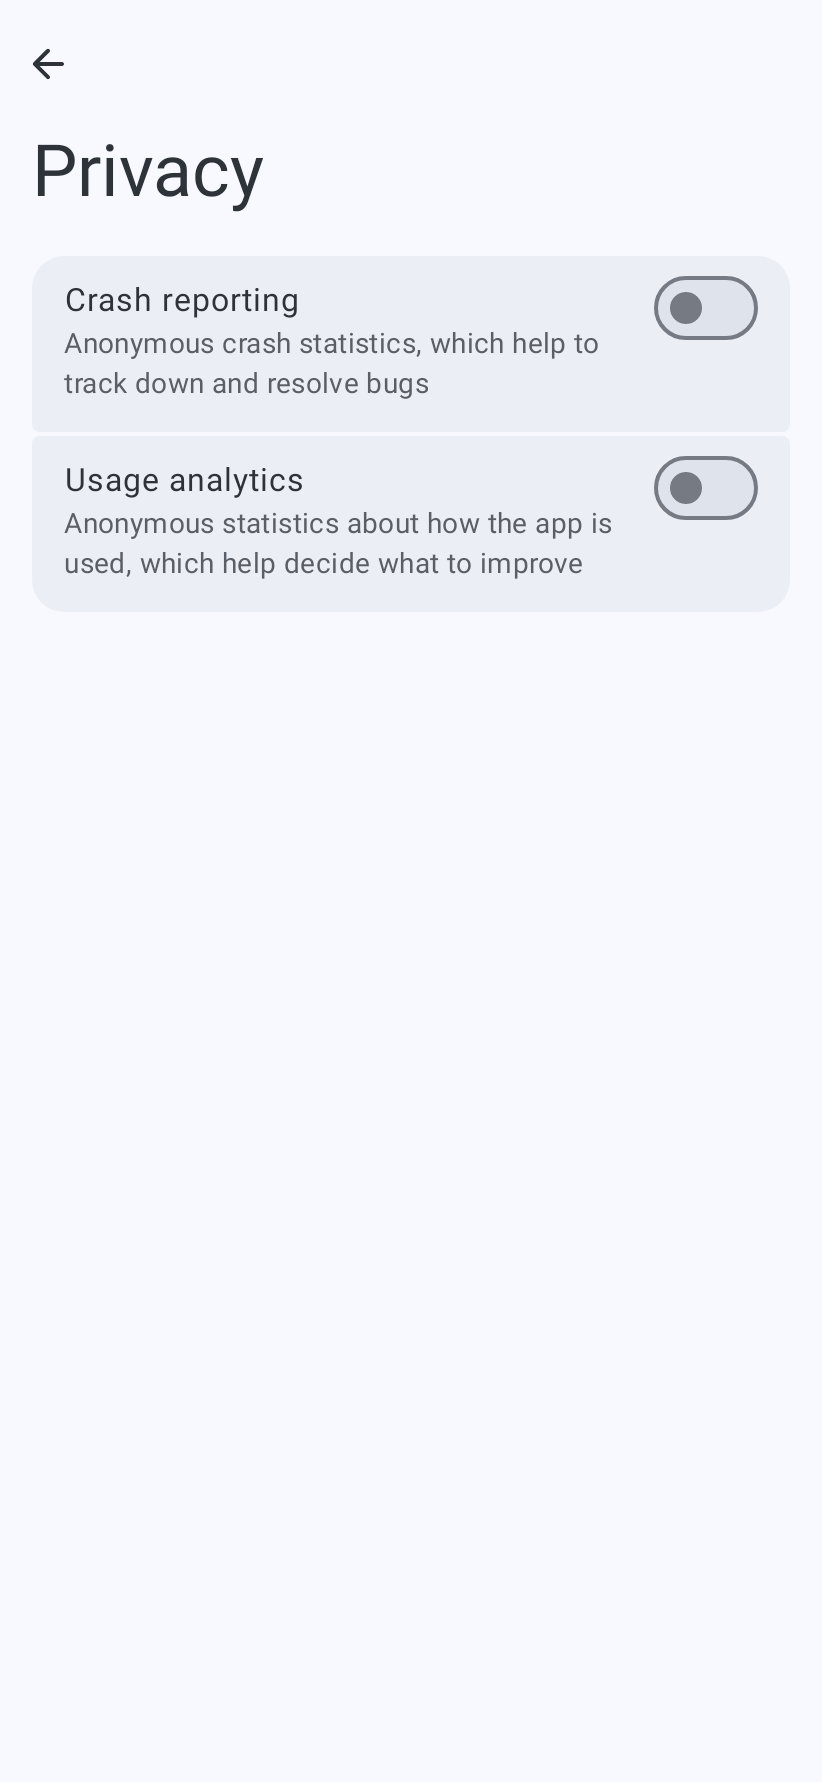
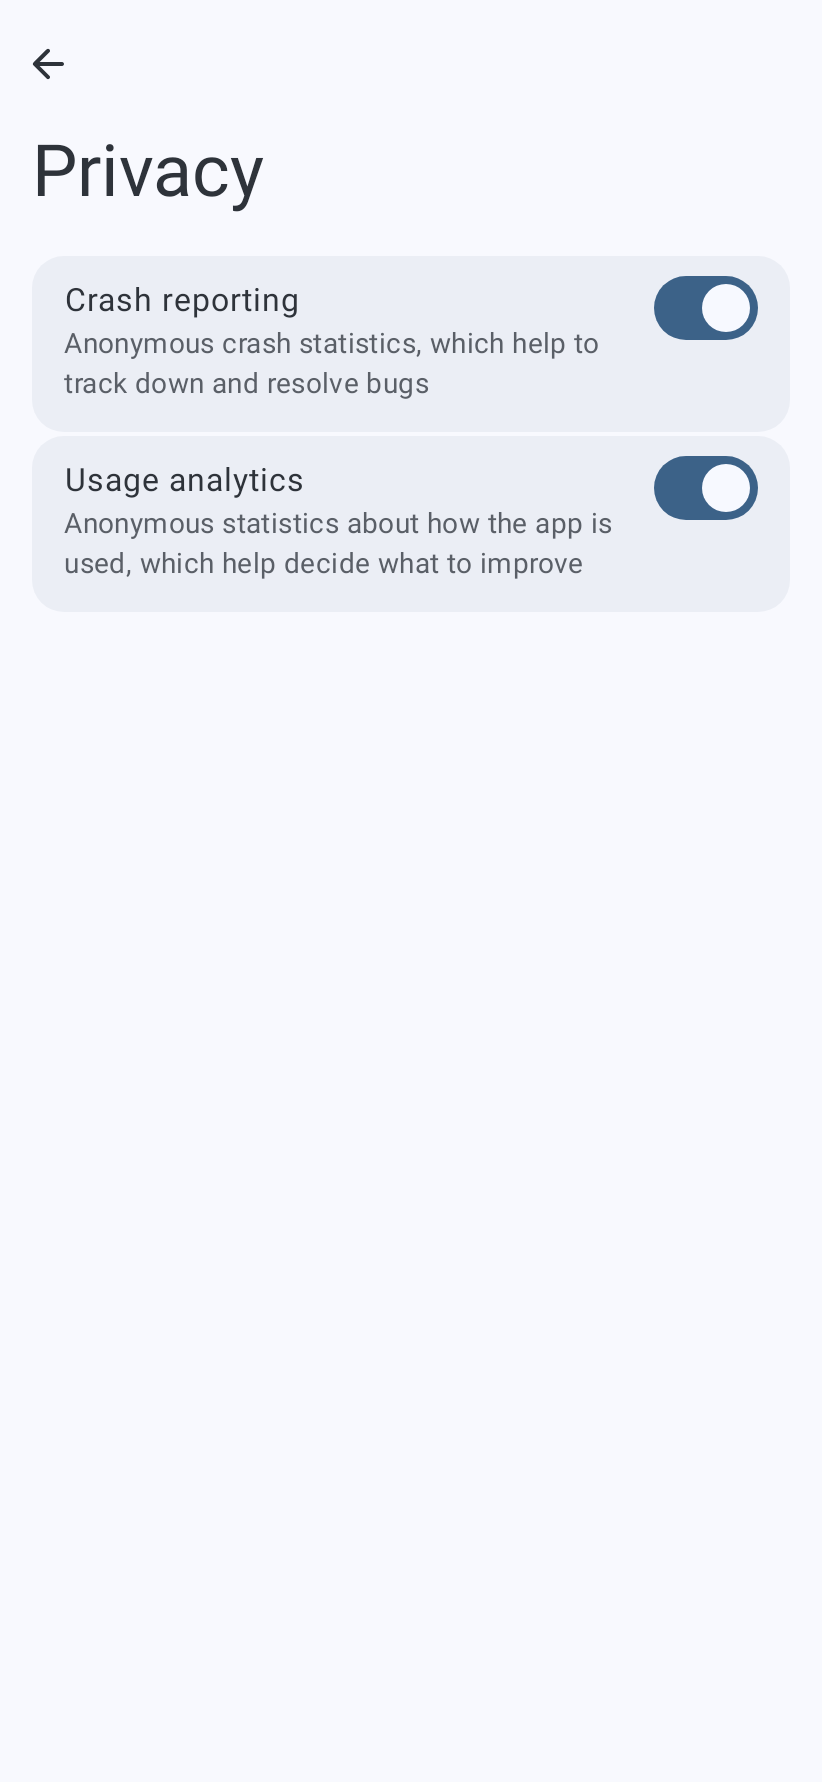
feat(app): turn analytics and crash reporting on by default for existing users
Crash reporting and analytics now default to on for anyone who never made an
explicit choice, matching the behaviour new installs already got. Existing
users who answered or dismissed the old Home consent card are migrated to an
explicit off for analytics (a dismissed/declined card counts as "no"), one
time, in InstallDefaults; everyone else picks up the new default. PostHog
stays anonymous: PersonProfiles.IDENTIFIED_ONLY with no identify() call ever
made.

Refs #481
Claude-Session: https://claude.ai/code/session_01CL48t2dCTxLYqEqQTddaMS

Changed region(s): [[0.7908, 0.2469, 0.9428, 0.3086], [0.7908, 0.1543, 0.9428, 0.216]]

diff --git a/android/app/src/test/java/com/simplecityapps/shuttle/InstallDefaultsTest.kt b/android/app/src/test/java/com/simplecityapps/shuttle/InstallDefaultsTest.kt
@@ -3,6 +3,7 @@ package com.simplecityapps.shuttle
 import android.content.SharedPreferences
 import androidx.core.content.edit
 import com.simplecityapps.shuttle.persistence.GeneralPreferenceManager
+import com.simplecityapps.shuttle.settings.AnalyticsConsentSettings
 import com.simplecityapps.shuttle.settings.PrivacySettings
 import com.simplecityapps.shuttle.settings.SettingsStore
 import com.simplecityapps.shuttle.settings.defaultSharedPreferences
@@ -17,29 +18,52 @@ class InstallDefaultsTest {
     private val prefs: SharedPreferences = RuntimeEnvironment.getApplication().defaultSharedPreferences().apply { edit().clear().commit() }
     private val preferenceManager = GeneralPreferenceManager(prefs)
     private val privacySettings = PrivacySettings(SettingsStore(prefs))
-    private val installDefaults = InstallDefaults(preferenceManager, privacySettings)
+    private val analyticsConsentSettings = AnalyticsConsentSettings(SettingsStore(prefs))
+    private val installDefaults = InstallDefaults(preferenceManager, privacySettings, analyticsConsentSettings)
 
     @Test
-    fun `a new install turns crash reporting and analytics on and has no changelog to show`() {
+    fun `a new install turns crash reporting and analytics on, has no changelog to show, and never needs the notice`() {
         installDefaults.onLaunch(versionCode = 26092501, versionName = "2026.09.25")
 
         privacySettings.crashReporting.value shouldBe true
         privacySettings.analytics.value shouldBe true
         preferenceManager.lastViewedChangelogVersion shouldBe "2026.09.25"
         preferenceManager.previousVersionCode shouldBe 26092501
+        analyticsConsentSettings.noticeShown.value shouldBe true
     }
 
     @Test
-    fun `an upgrade from a user who never chose keeps crash reporting and analytics off and shows the changelog`() {
+    fun `an upgrade from a user who never chose turns crash reporting and analytics on and shows the changelog`() {
         preferenceManager.previousVersionCode = 26010101
         preferenceManager.lastViewedChangelogVersion = "2026.01.01"
 
         installDefaults.onLaunch(versionCode = 26092501, versionName = "2026.09.25")
 
-        privacySettings.crashReporting.value shouldBe false
-        privacySettings.analytics.value shouldBe false
+        privacySettings.crashReporting.value shouldBe true
+        privacySettings.analytics.value shouldBe true
         preferenceManager.lastViewedChangelogVersion shouldBe "2026.01.01"
         preferenceManager.previousVersionCode shouldBe 26092501
+    }
+
+    @Test
+    fun `an upgrade from a user who never chose does not mark the notice shown`() {
+        preferenceManager.previousVersionCode = 26010101
+
+        installDefaults.onLaunch(versionCode = 26092501, versionName = "2026.09.25")
+
+        analyticsConsentSettings.noticeShown.value shouldBe false
+    }
+
+    @Test
+    fun `an upgrade from a user who answered the deleted consent card migrates analytics to an explicit off`() {
+        preferenceManager.previousVersionCode = 26010101
+        analyticsConsentSettings.asked.value = true
+
+        installDefaults.onLaunch(versionCode = 26092501, versionName = "2026.09.25")
+
+        privacySettings.analytics.value shouldBe false
+        privacySettings.analytics.isSet() shouldBe true
+        analyticsConsentSettings.noticeShown.value shouldBe true
     }
 
     @Test
@@ -53,6 +77,18 @@ class InstallDefaultsTest {
         installDefaults.onLaunch(versionCode = 26092501, versionName = "2026.09.25")
 
         privacySettings.crashReporting.value shouldBe true
+        privacySettings.analytics.value shouldBe true
+        analyticsConsentSettings.noticeShown.value shouldBe true
+    }
+
+    @Test
+    fun `an upgrade keeps an explicit opt-out even from a user who answered the deleted consent card`() {
+        preferenceManager.previousVersionCode = 26010101
+        analyticsConsentSettings.asked.value = true
+        privacySettings.analytics.value = true
+
+        installDefaults.onLaunch(versionCode = 26092501, versionName = "2026.09.25")
+
         privacySettings.analytics.value shouldBe true
     }
 

diff --git a/android/app/src/test/java/com/simplecityapps/shuttle/telemetry/TelemetryConsentGateTest.kt b/android/app/src/test/java/com/simplecityapps/shuttle/telemetry/TelemetryConsentGateTest.kt
@@ -28,14 +28,27 @@ class TelemetryConsentGateTest {
     }
 
     @Test
-    fun `nothing is collected before the user opts in`() = runTest {
+    fun `both default on for a user who never chose`() = runTest {
         startGate()
         runCurrent()
 
-        crashReporting.calls shouldBe listOf(false, false)
-        analytics.calls shouldBe listOf(false, false)
-        crashReporting.enabled shouldBe false
-        analytics.enabled shouldBe false
+        crashReporting.calls shouldBe listOf(true, true)
+        analytics.calls shouldBe listOf(true, true)
+        crashReporting.enabled shouldBe true
+        analytics.enabled shouldBe true
+    }
+
+    @Test
+    fun `an explicit off stays off`() = runTest {
+        prefs.edit(commit = true) {
+            putBoolean(PrivacySettings.CrashReporting.key, false)
+            putBoolean(PrivacySettings.Analytics.key, false)
+        }
+
+        startGate()
+
+        crashReporting.calls shouldBe listOf(false)
+        analytics.calls shouldBe listOf(false)
     }
 
     @Test
@@ -52,33 +65,33 @@ class TelemetryConsentGateTest {
     }
 
     @Test
-    fun `opting in to analytics starts it and opting out stops it`() = runTest {
+    fun `opting out of analytics stops it, independently of crash reporting`() = runTest {
         startGate()
         runCurrent()
-
-        privacySettings.analytics.value = true
-        runCurrent()
-        analytics.enabled shouldBe true
-        crashReporting.enabled shouldBe false
 
         privacySettings.analytics.value = false
         runCurrent()
         analytics.enabled shouldBe false
+        crashReporting.enabled shouldBe true
+
+        privacySettings.analytics.value = true
+        runCurrent()
+        analytics.enabled shouldBe true
     }
 
     @Test
-    fun `opting in to crash reporting starts it and opting out stops it`() = runTest {
+    fun `opting out of crash reporting stops it, independently of analytics`() = runTest {
         startGate()
         runCurrent()
-
-        privacySettings.crashReporting.value = true
-        runCurrent()
-        crashReporting.enabled shouldBe true
-        analytics.enabled shouldBe false
 
         privacySettings.crashReporting.value = false
         runCurrent()
         crashReporting.enabled shouldBe false
+        analytics.enabled shouldBe true
+
+        privacySettings.crashReporting.value = true
+        runCurrent()
+        crashReporting.enabled shouldBe true
     }
 
     /** Records every [setEnabled] call the gate makes, standing in for Sentry or PostHog. */

diff --git a/android/app/src/main/java/com/simplecityapps/shuttle/InstallDefaults.kt b/android/app/src/main/java/com/simplecityapps/shuttle/InstallDefaults.kt
@@ -1,6 +1,7 @@
 package com.simplecityapps.shuttle
 
 import com.simplecityapps.shuttle.persistence.GeneralPreferenceManager
+import com.simplecityapps.shuttle.settings.AnalyticsConsentSettings
 import com.simplecityapps.shuttle.settings.PrivacySettings
 import javax.inject.Inject
 
@@ -11,14 +12,25 @@ import javax.inject.Inject
 class InstallDefaults @Inject constructor(
     private val preferenceManager: GeneralPreferenceManager,
     private val privacySettings: PrivacySettings,
+    private val analyticsConsentSettings: AnalyticsConsentSettings,
 ) {
     fun onLaunch(versionCode: Int = BuildConfig.VERSION_CODE, versionName: String = BuildConfig.VERSION_NAME) {
         if (preferenceManager.previousVersionCode == -1) {
-            // Nothing to catch up on: the changelog is for upgrades
+            // Nothing to catch up on: the changelog is for upgrades. Crash reporting and analytics default to on
+            // (#379, #481) on their own; nothing silently changed for a new install, so it never needs the notice.
             preferenceManager.lastViewedChangelogVersion = versionName
-            // On for new installs (#379, #481). Existing users who never chose keep the old default, off
-            privacySettings.crashReporting.value = true
-            privacySettings.analytics.value = true
+            analyticsConsentSettings.noticeShown.value = true
+        } else if (preferenceManager.previousVersionCode != versionCode) {
+            // First launch after upgrading to this version: analytics (and crash reporting) now default to on for
+            // anyone who never chose (#481). The deleted Home consent card's No thanks or dismiss (#421) never wrote
+            // an explicit value, so treat it as the opt-out it was.
+            if (analyticsConsentSettings.asked.value && !privacySettings.analytics.isSet()) {
+                privacySettings.analytics.value = false
+            }
+            // Anyone with an explicit choice by now, including that migration, made it already: no notice needed.
+            if (privacySettings.analytics.isSet()) {
+                analyticsConsentSettings.noticeShown.value = true
+            }
         }
         if (preferenceManager.previousVersionCode != versionCode) {
             preferenceManager.previousVersionCode = versionCode

diff --git a/android/core/src/main/java/com/simplecityapps/shuttle/settings/PrivacySettings.kt b/android/core/src/main/java/com/simplecityapps/shuttle/settings/PrivacySettings.kt
@@ -12,18 +12,19 @@ class PrivacySettings @Inject constructor(
 
     companion object {
         /**
-         * Sentry crash reporting, applied at startup and whenever it changes (TelemetryConsentGate), with the opt-out in
-         * Settings > Privacy. A new install stores it on (owner decision 3, #379; see InstallDefaults); this default,
-         * off, is what existing users who never chose have always had.
+         * Sentry crash reporting, applied at startup and whenever it changes (TelemetryConsentGate), with the opt-out
+         * in Settings > Privacy. On by default for everyone who hasn't explicitly turned it off (owner decision,
+         * #481); an explicit off always stays off.
          */
-        val CrashReporting = Setting.boolean("pref_crash_reporting", false)
+        val CrashReporting = Setting.boolean("pref_crash_reporting", true)
 
         /**
          * PostHog product analytics, applied at startup and whenever it changes (TelemetryConsentGate), with the
-         * opt-out in Settings > Privacy. A new install stores it on (owner decision, #481; see InstallDefaults); this
-         * default, off, is what existing users who never chose have always had — the Home consent card (#421) offers
-         * them the same choice. The key predates PostHog: it keeps the choice users made for Firebase Analytics.
+         * opt-out in Settings > Privacy. On by default for everyone who hasn't explicitly turned it off (owner
+         * decision, #481); an explicit off always stays off, including from the deleted Home consent card's No
+         * thanks or dismiss (#421), migrated to an explicit off by InstallDefaults. The key predates PostHog: it
+         * keeps the choice users made for Firebase Analytics.
          */
-        val Analytics = Setting.boolean("pref_firebase_analytics", false)
+        val Analytics = Setting.boolean("pref_firebase_analytics", true)
     }
 }

diff --git a/android/core/src/main/java/com/simplecityapps/shuttle/settings/AnalyticsConsentSettings.kt b/android/core/src/main/java/com/simplecityapps/shuttle/settings/AnalyticsConsentSettings.kt
@@ -3,23 +3,23 @@ package com.simplecityapps.shuttle.settings
 import javax.inject.Inject
 import javax.inject.Singleton
 
-/** The Home analytics consent card's own state (#421): whether it's been answered, and how many days it's counted. */
+/**
+ * Analytics consent history. [asked] is a leftover from the deleted Home consent card (#421), kept so
+ * InstallDefaults can migrate anyone who answered or dismissed it into an explicit opt-out (#481).
+ * [noticeShown] tracks the one-time notice that replaced the card.
+ */
 @Singleton
 class AnalyticsConsentSettings @Inject constructor(
     store: SettingsStore
 ) {
-    /** Answered, by Share, No thanks or dismissing the card; once true, the card never shows again. */
+    /** Answered, by Share, No thanks or dismissing the deleted card. */
     val asked = store.preference(Asked)
 
-    /** Days the app has been opened while the card hadn't been answered yet, counted once per calendar day. */
-    val daysOpened = store.preference(DaysOpened)
-
-    /** The epoch day [daysOpened] was last incremented on, so a day is never counted twice. */
-    val lastCountedEpochDay = store.preference(LastCountedEpochDay)
+    /** Whether the one-time "analytics is now on" notice has been shown (or never applies) for this install. */
+    val noticeShown = store.preference(NoticeShown)
 
     companion object {
         val Asked = Setting.boolean("pref_analytics_consent_asked", false)
-        val DaysOpened = Setting.int("pref_analytics_consent_days_opened", 0)
-        val LastCountedEpochDay = Setting.int("pref_analytics_consent_last_counted_epoch_day", -1)
+        val NoticeShown = Setting.boolean("pref_analytics_notice_shown", false)
     }
 }

diff --git a/android/app/src/test/java/com/simplecityapps/shuttle/settings/SettingsRepositoriesTest.kt b/android/app/src/test/java/com/simplecityapps/shuttle/settings/SettingsRepositoriesTest.kt
@@ -54,8 +54,8 @@ class SettingsRepositoriesTest {
             "artwork_wifi_only" to true,
             "artwork_local_only" to false,
             "media_session_artwork" to true,
-            "pref_crash_reporting" to false,
-            "pref_firebase_analytics" to false,
+            "pref_crash_reporting" to true,
+            "pref_firebase_analytics" to true,
             "pref_file_logging" to false,
             "pref_retain_shuffle_on_new_queue" to false,
             "pref_bit_perfect_usb" to false,
@@ -147,11 +147,11 @@ class SettingsRepositoriesTest {
     @Test
     fun `reset forgets the stored value`() {
         val privacy = PrivacySettings(store)
-        privacy.analytics.value = true
+        privacy.analytics.value = false
 
         privacy.analytics.reset()
 
-        privacy.analytics.value shouldBe false
+        privacy.analytics.value shouldBe true
         prefs.contains("pref_firebase_analytics") shouldBe false
     }
 

diff --git a/android/app/src/main/java/com/simplecityapps/shuttle/telemetry/PostHogAnalytics.kt b/android/app/src/main/java/com/simplecityapps/shuttle/telemetry/PostHogAnalytics.kt
@@ -56,8 +56,9 @@ class PostHogAnalytics @Inject constructor(
             captureApplicationLifecycleEvents = true
             sessionReplay = false
             debug = BuildConfig.DEBUG
-            // Keeps the anonymous person profile, so retention queries see the install cohort
-            personProfiles = PersonProfiles.ALWAYS
+            // No identify() call is ever made, so this never actually creates a person profile (#481): PostHog
+            // stays anonymous, tracked only by its own generated device ID
+            personProfiles = PersonProfiles.IDENTIFIED_ONLY
         }
         PostHogAndroid.setup(application, config)
         PostHog.register("app_version", BuildConfig.VERSION_NAME)

diff --git a/android/core/src/main/java/com/simplecityapps/shuttle/settings/Preference.kt b/android/core/src/main/java/com/simplecityapps/shuttle/settings/Preference.kt
@@ -35,6 +35,9 @@ class Preference<T>(
         sharedPreferences.edit { remove(setting.key) }
     }
 
+    /** Whether a value has been explicitly stored — false means [value] is reading as [default]. */
+    fun isSet(): Boolean = sharedPreferences.contains(setting.key)
+
     /** The current value, then every change to it. */
     val flow: Flow<T> = callbackFlow {
         val listener = SharedPreferences.OnSharedPreferenceChangeListener { _, changedKey ->
